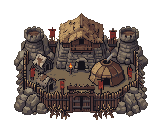
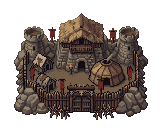
Les villes du Donjon, de la Tour et des Barbares sur la carte
- Le Donjon : une forteresse sombre creusée dans la roche autour d'un gouffre
  qui luit de rose et de violet (choix de l'utilisateur), luminosité 60 ;
  pieds revus par l'utilisateur.
- La Tour et les Barbares redessinés avec l'ombrage doux du Château (dégradés,
  presque sans traits) et des détails sur les murs, par retouche PixelLab ;
  mêmes formes, mêmes pieds.
- Méthode notée dans METHODE.md.

diff --git a/tools/art/METHODE.md b/tools/art/METHODE.md
@@ -278,6 +278,17 @@ les clés et le dossier `art-candidats/` sont décrits dans `CLAUDE.md` ; l'hist
   outline of the same width everywhere ») avec le candidat aimé comme modèle et le Château comme style. Le toit du donjon
   changé en dôme d'or par `pixellab.py retoucher` (le reste ne bouge pas). **Coûts réels** : un lot « Pro » avec des
   modèles a coûté 0,46 $ (annoncé 0,115 $) et la retouche 0,54 $ (annoncée 0,08 $) : regarder le solde avant et après.
+- **L'ombrage du Château par retouche (2026-11-11)** : le Château a des volumes ombrés en dégradés (tours rondes comme des
+  cylindres, éclairées de gauche), une texture douce faite de petits écarts de ton et presque pas de traits à l'intérieur
+  (3 % de pixels de trait, contre 14 % pour la première ville de la Tour). Un candidat sur quatre qui recopie le modèle
+  (le Château) garde ce dessin. Pour le donner à une image qu'on aime : `pixellab.py retoucher` en deux temps,
+  « Redraw the shading in a softer painterly pixel style: large stone surfaces shaded with smooth gradients, lit from the
+  upper left… round towers shaded like cylinders, gentle stone texture made of small tone changes, almost no dark outlines
+  inside the image. Keep the same shapes… », puis « Add small details to the stone walls and towers so they are less flat:
+  visible stone blocks and masonry joints…, a few cracks, small arrow slits, some moss and dark stains near the base, worn
+  edges. Subtle details, no thick outlines… Keep everything else exactly the same ». Les formes ne bougent pas (les pieds
+  restent bons). Redessiner l'image avec une image de style (`pro`) ne marche pas : le style d'avant revient. La
+  retouche change la luminosité : la régler ensuite (`luminosite.py`). Fait pour le Donjon, la Tour et les Barbares.
 - **Ne pas lancer `godot --headless --import`** pour prendre en compte une nouvelle image : il écrit plus de 400 fichiers `.import` et `.uid` non suivis à côté des images et des scripts. Une capture ordinaire (`-- --capture=…`) voit déjà la nouvelle image.
 - **Luminosité des villes (2026-11-11)** : mesurée par `luminosite.py mesure` (Château 125, Forêt 77, Barbares 74,
   morts-vivants 45) ; la Tour (156, trop claire) ramenée à 125 par une courbe. Éclaircir la Forêt et les Barbares (même

diff --git a/PLAN.md b/PLAN.md
@@ -162,7 +162,9 @@ Décidé avec l'utilisateur (2026-11-11), d'après ses images (`art-candidats/re
 Écartés de la faction, pour les monstres neutres de la carte ou les améliorations : la Méduse (trop proche de la Naga de
 la Tour), le Gnoll, l'Augure vautour, la Manticore, la Chimère, la Wyverne, le Centaure orc (trop proche des Nomades).
 Le Dragon rouge reste neutre (peut-être le niveau 7 des Nains, à moins du Phénix).
-Découpage comme les autres : 1. les créatures et leurs capacités ; 2. la ville, la classe et ses héros ; 3. les images.
+Découpage comme les autres : 1. les créatures et leurs capacités ; 2. la ville, la classe et ses héros ; 3. les images
+(les créatures : session images ; ✅ la ville sur la carte, 2026-11-11, branche `villes-carte` : une forteresse sombre
+creusée dans la roche autour d'un gouffre qui luit de rose et de violet, `objects/town-donjon.png`, luminosité 60).
 1. ✅ Les créatures et leurs capacités (2026-11-11, branche `donjon`) : `terror` (−1 de moral par coup, jusqu'à −3 ;
    événement `UnitTerrified`), `horror` (−2), `brave` (moral au moins +1, insensible), `endless-retaliation`, `burrows`
    (se déplace comme en volant, sous terre), `swallow` (une chance sur cinq par morsure, pas en riposte, une cible d'un
@@ -255,7 +257,8 @@ Découpage comme la Forêt : 1. les créatures et leurs capacités ; 2. la ville
    Tests : `VilleTourTests`.
 3. Les images (session images) : les 7 créatures. ✅ La ville sur la carte (2026-11-11, branche `ville-tour`, choix de
    l'utilisateur) : une tour de mages au dôme d'or en bulbe (un air oriental, comme les créatures : Naga, Djinn), petits
-   dômes bleus, enceinte ronde de pierre claire (`objects/town-tour.png`), ramenée à la luminosité du Château.
+   dômes bleus, enceinte ronde de pierre claire (`objects/town-tour.png`), ramenée à la luminosité du Château. Puis
+   (branche `villes-carte`) la Tour et les Barbares redessinés avec l'ombrage doux du Château et des détails sur les murs.
 
 #### La Forêt (en cours)
 Décidé avec l'utilisateur (2026-11-09).

diff --git a/HISTORIQUE.md b/HISTORIQUE.md
@@ -864,6 +864,12 @@ Après l'IA (choix de l'utilisateur), qui devra ensuite apprendre la magie et le
   après le moral de chaque camp et avant le brave (ceux que rien n'effraie gardent leur moral) ; `Texts.TalentText`.
   Cinq héros de la faction « sombre » passent au Donjon ; « tour » retiré des factions prévues (`DataValidation`).
 ### 10. Finitions : apparence et détails
+- ✅ Villes du Donjon, de la Tour et des Barbares (2026-11-11, branche `villes-carte`, PixelLab, 1,93 $) : le Donjon en trois
+  idées (a : porte de l'abîme, b : citadelle du gouffre, c : tour de l'œil) ; choisie a-2 (forteresse creusée dans la
+  falaise), retouchée pour la lumière rose et violette du gouffre (d-1), puis pour l'ombrage doux du Château (h-1 : a-4,
+  qui recopiait le Château, montrait ce dessin), puis pour des détails sur les murs (j-1), assombrie de 71 à 60. Les
+  mêmes deux retouches (ombrage, détails) sur la Tour (puis luminosité 125) et les Barbares (70). Redessiner d-1 avec a-4
+  comme image de style (série i) n'a rien donné. Pieds du Donjon revus par l'utilisateur.
 - ✅ Ville de la Tour sur la carte (2026-11-11, branche `ville-tour`, PixelLab « Pro » 160 × 128 et une retouche, 2,38 $) :
   trois idées en lots de quatre (a : tour de mages, b : cité de flèches, c : citadelle de géants), puis c-2 aux murs
   ronds (d, e), puis la série a plus lisible (f, g : ombrage et trait du Château demandés) ; choix **g-2**, son toit bleu
